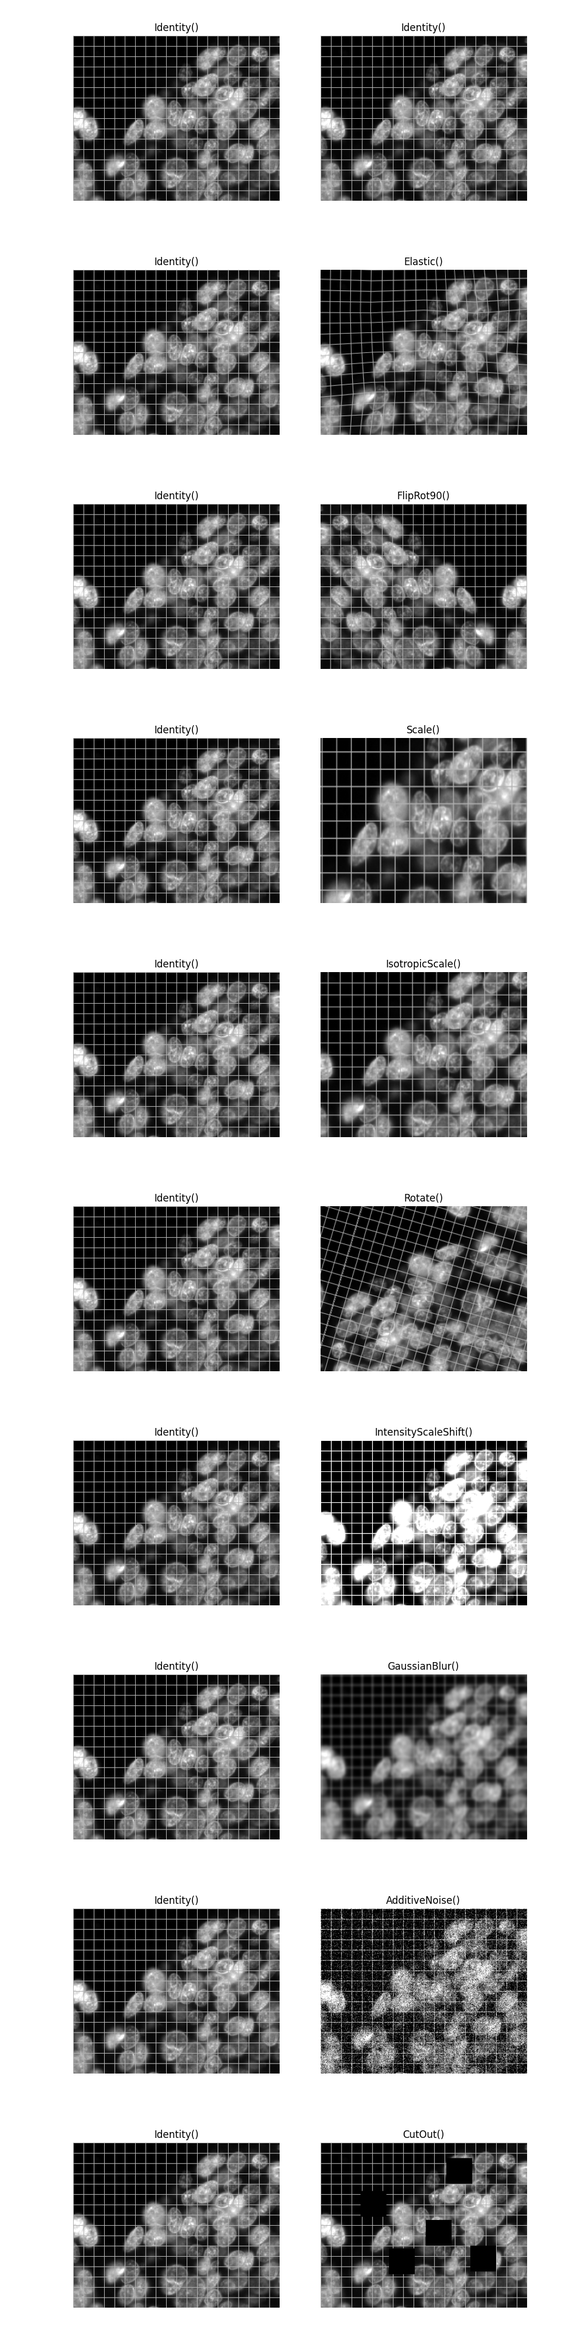
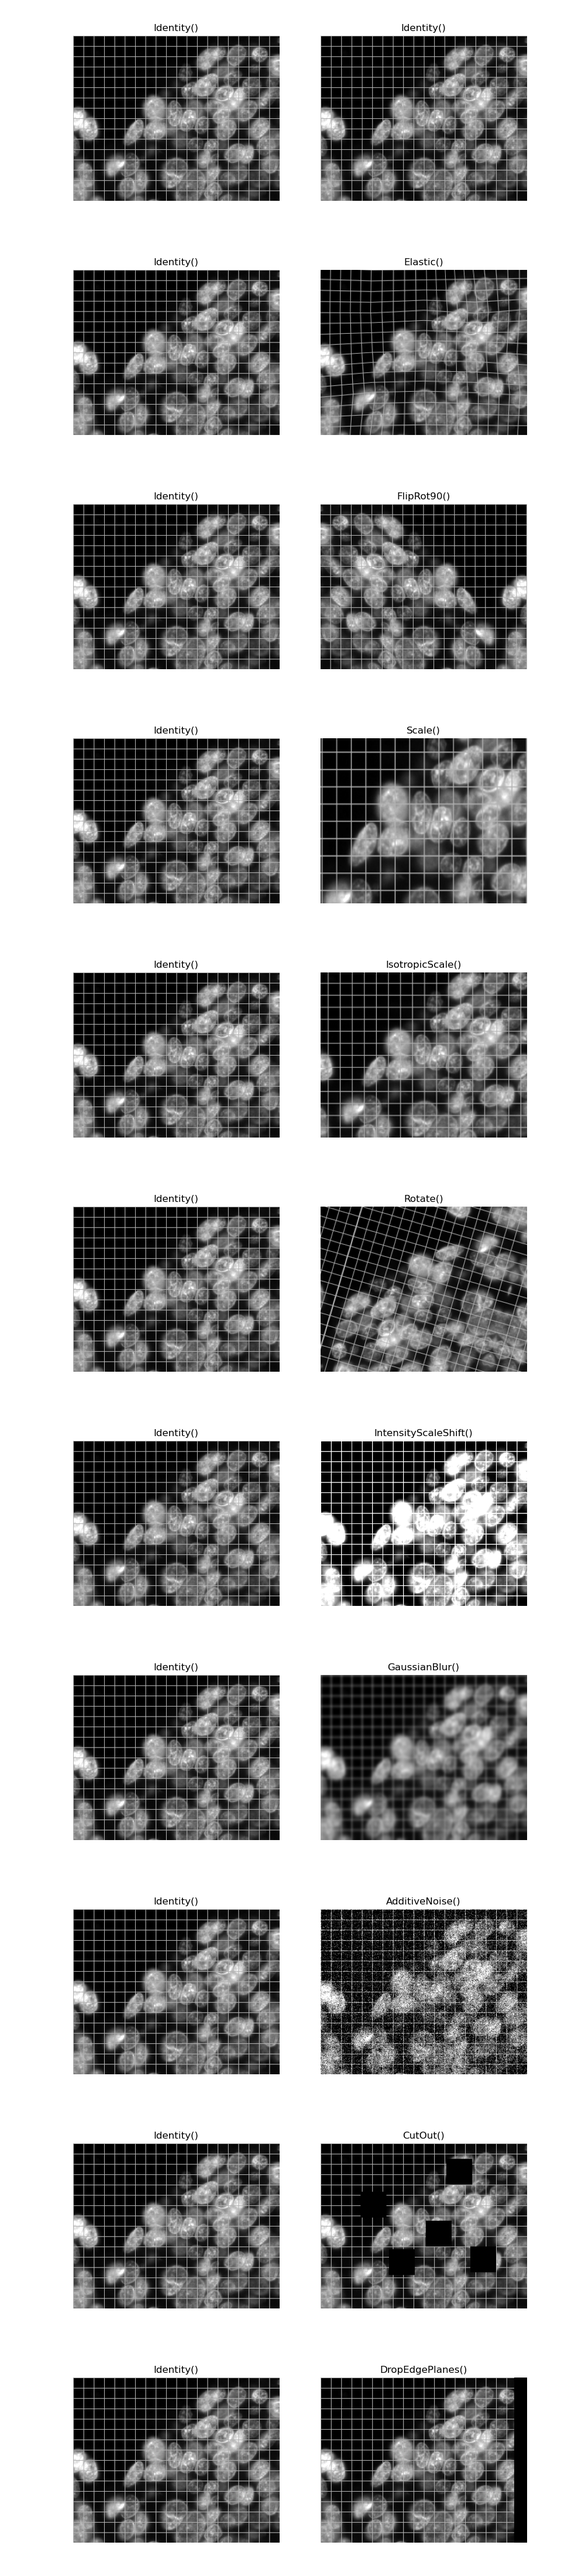
Add DropPlanes and DropEdgePlanes augmentation

diff --git a/augmend/transforms/other.py b/augmend/transforms/other.py
@@ -3,6 +3,95 @@ from scipy.ndimage.filters import gaussian_filter
 from .base import BaseTransform
 from ..utils import _validate_rng, _flatten_axis
 
+
+
+def blur(img, rng, amount = ((1,5),(2,4)), mode = "reflect", axis= None):
+    """
+    amount: scalar, or pair (min, max) or tuple of pairs ((min_1, max_1), (min_2, max_2),
+    """
+    img = np.asanyarray(img)
+    axis = _flatten_axis(img.ndim, axis)
+    # TODO: add proper error handling
+
+    rng = _validate_rng(rng)
+
+    if np.isscalar(amount):
+        amount = (amount,amount) * len(axis)
+    if np.isscalar(amount[0]) and len(amount)==2:
+        amount = (amount,) * len(axis)
+
+    if not (len(amount) == len(axis) and all(len(am)==2 for am in amount)):
+        raise ValueError("misformed amount:  {amount}".format(amount=amount))
+        
+    amount = np.asanyarray(amount)
+    assert len(axis) == len(amount)
+    
+    
+    sigmas = tuple(rng.uniform(lower, upper) for lower, upper in amount)
+
+    sigmas_all = [0]*img.ndim
+    for ax,sig in zip(axis, sigmas):
+        sigmas_all[ax] = sig
+    y = gaussian_filter(img, sigmas_all, mode=mode)
+    return y
+
+
+
+def drop_planes(x, rng, axis, width, n, val):
+    rng = _validate_rng(rng)
+    axis = _flatten_axis(x.ndim, axis)
+    if np.isscalar(val):
+        val = (val, val)
+    ax = np.random.choice(axis)
+    
+    if x.shape[ax]<width:
+        raise ValueError(f'cannot drop {n} planes since shape of input {x.shape} along axis {ax} is too small')
+
+    x2 = x.copy().astype(np.float32)
+
+    ss = [slice(None)]*x.ndim
+    for _ in range(n):
+        start = rng.randint(0,x.shape[ax]-width+1)
+        ss[ax] = slice(start, start+n)
+        x2[tuple(ss)] = rng.uniform(*val)
+    return x2.astype(x.dtype, copy=False)
+
+
+
+def drop_edge_planes(x, rng, axis, width,  val):
+    rng = _validate_rng(rng)
+    axis = _flatten_axis(x.ndim, axis)
+    if np.isscalar(val):
+        val = (val, val)
+    ax = np.random.choice(axis)
+    
+    if x.shape[ax]<width:
+        raise ValueError(f'cannot drop {n} planes since shape of input {x.shape} along axis {ax} is too small')
+
+    x2 = x.copy().astype(np.float32)
+
+    ss = [slice(None)]*x.ndim
+    if rng.randint(0,2)==0:
+        ss[ax] = slice(0,width)
+    else:
+        ss[ax] = slice(-width, None)
+
+    x2[tuple(ss)] = rng.uniform(*val)
+    return x2.astype(x.dtype, copy=False)
+
+
+
+
+class GaussianBlur(BaseTransform):
+    """
+    Cut parts of the image
+    """
+    def __init__(self, amount= (1,4), mode=  "reflect", axis = None):
+        super().__init__(
+            default_kwargs=dict(amount=amount, mode=mode, axis=axis),
+            transform_func=blur)
+
+
 class CutOut(BaseTransform):
     """
     Cut parts of the image
@@ -44,45 +133,49 @@ class CutOut(BaseTransform):
             
         return y
 
-
-def blur(img, rng, amount = ((1,5),(2,4)), mode = "reflect", axis= None):
+                    
+class DropPlanes(BaseTransform):
     """
-    amount: scalar, or pair (min, max) or tuple of pairs ((min_1, max_1), (min_2, max_2),
+    set planes along a random axis to given value (or random value from a given range of values)
     """
-    img = np.asanyarray(img)
-    axis = _flatten_axis(img.ndim, axis)
-    # TODO: add proper error handling
-
-    rng = _validate_rng(rng)
-
-    if np.isscalar(amount):
-        amount = (amount,amount) * len(axis)
-    if np.isscalar(amount[0]) and len(amount)==2:
-        amount = (amount,) * len(axis)
-
-    if not (len(amount) == len(axis) and all(len(am)==2 for am in amount)):
-        raise ValueError("misformed amount:  {amount}".format(amount=amount))
-        
-    amount = np.asanyarray(amount)
-    assert len(axis) == len(amount)
-    
-    
-    sigmas = tuple(rng.uniform(lower, upper) for lower, upper in amount)
-
-    sigmas_all = [0]*img.ndim
-    for ax,sig in zip(axis, sigmas):
-        sigmas_all[ax] = sig
-    y = gaussian_filter(img, sigmas_all, mode=mode)
-    return y
-         
-    
-class GaussianBlur(BaseTransform):
-    """
-    Cut parts of the image
-    """
-    def __init__(self, amount= (1,4), mode=  "reflect", axis = None):
+    def __init__(self, axis=None, n=1, width=1, val=0):
+        """
+        Parameters
+        ----------
+        axis : tuple or None
+           possible axis to use for dropping (None if all)
+        width : int 
+           with of each plane to drop
+        n    : int 
+           number of planes to drop
+        val  : float or (float, float)
+           set plane to this value 
+              
+        """
         super().__init__(
-            default_kwargs=dict(amount=amount, mode=mode, axis=axis),
-            transform_func=blur)
+            default_kwargs=dict(axis=axis, width=width, n=n, val=val),
+            transform_func=drop_planes)
 
-    
+        
+class DropEdgePlanes(BaseTransform):
+    """
+    set edge planes along a random axis to given value (or random value from a given range of values)
+    """
+    def __init__(self, axis=None, width=1, val=0):
+        """
+        Parameters
+        ----------
+        axis : tuple or None
+           possible axis to use for dropping (None if all)
+        width : int 
+           with of each plane to drop
+        val  : float or (float, float)
+           set plane to this value 
+              
+        """
+        super().__init__(
+            default_kwargs=dict(axis=axis, width=width, val=val),
+            transform_func=drop_edge_planes)
+
+
+        

diff --git a/tests/create_examples_readme.py b/tests/create_examples_readme.py
@@ -7,7 +7,7 @@ import numpy as np
 from imageio import imread
 from tifffile import imread
 import matplotlib.pyplot as plt
-from augmend import Augmend, Elastic, FlipRot90, Scale, Rotate, IntensityScaleShift, GaussianBlur, AdditiveNoise, CutOut, IsotropicScale, Identity
+from augmend import Augmend, Elastic, FlipRot90, Scale, Rotate, IntensityScaleShift, GaussianBlur, AdditiveNoise, CutOut, IsotropicScale, Identity, DropEdgePlanes
 from collections import OrderedDict
 from csbdeep.utils import normalize
 
@@ -32,7 +32,8 @@ if __name__ == '__main__':
         intensity = IntensityScaleShift(scale = (0.4,2)),
         gaussian = GaussianBlur(), 
         noise = AdditiveNoise(sigma=.2),
-        cutout = CutOut(width = (40,41))
+        cutout = CutOut(width = (40,41)),
+        dropedges = DropEdgePlanes(width = 20)
         )
 
     fig = plt.figure(figsize=(10,4), num=1)

diff --git a/augmend/transforms/intensity.py b/augmend/transforms/intensity.py
@@ -21,7 +21,9 @@ def intensity_scale_shift(x, rng, scale, shift, axis):
     size = tuple(1 if i in axis else s for i,s in enumerate(x.shape))
     return x*rng.uniform(*scale, size = size).astype(np.float32)+rng.uniform(*shift, size = size).astype(np.float32)
 
-
+    
+    
+    
                     
 class AdditiveNoise(BaseTransform):
     """
@@ -51,4 +53,3 @@ class IntensityScaleShift(BaseTransform):
 
 
 
-        

diff --git a/augmend/transforms/__init__.py b/augmend/transforms/__init__.py
@@ -2,7 +2,7 @@ from .base import TransformTree, BaseTransform, ChoiceTransform, ConcatenateTran
 from .affine import FlipRot90, Flip, Rotate, Scale, IsotropicScale
 
 from .elastic import Elastic
-from .other import CutOut, GaussianBlur
+from .other import CutOut, GaussianBlur, DropPlanes, DropEdgePlanes
 from .intensity import AdditiveNoise, IntensityScaleShift
 
 
